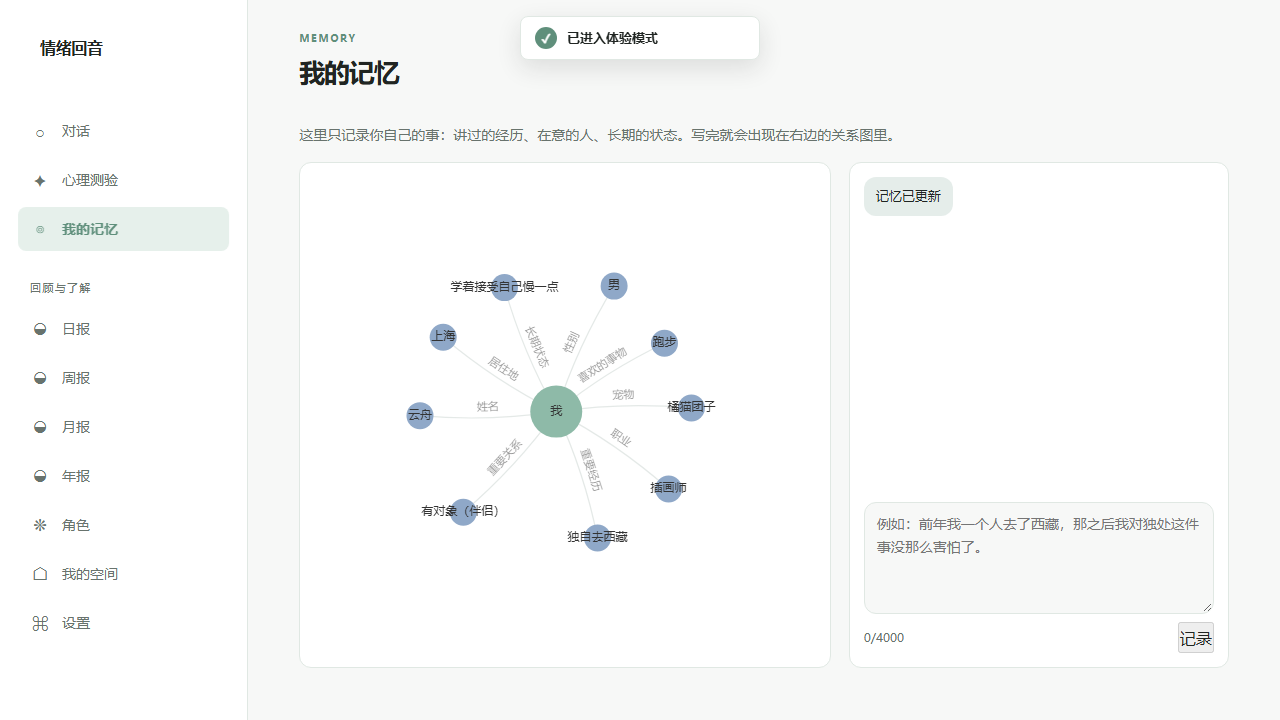
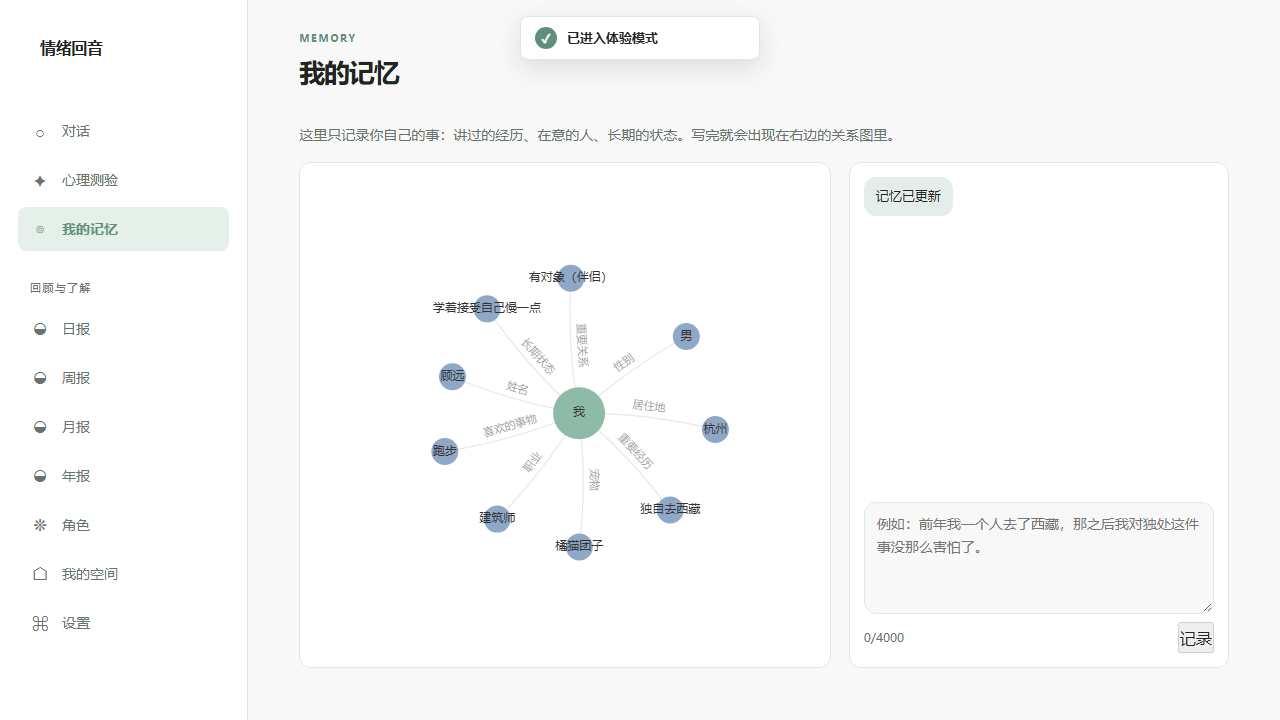
fix(cl-08a): LLM valid_from 幻觉锁死事实 + E2E 去固定等待（D.3/D.4 运行时证据） (#268)
* fix(memory): 校验 LLM 给出的 valid_from —— 幻觉日期会永久锁死事实

运行时抓到（2026-10-20 真栈）：抽取器把 LLM 返回的 58771-09-12T00:00:00Z 直接落库，
该 active 事实的 valid_from 落在遥远未来 ⇒ planner 的乱序保护（newerActiveFor）
把之后**所有**真实日期的新说法判为「迟到旧值」、降级为 superseded
⇒ 用户改口后图谱与 prompt 注入永远停在旧值，且不会自愈。

修法：新增 sanitizeValidFrom —— 只接受 [1970-01-01, now+24h]，
越界一律回落到来源时间（OccurredAt）；解析失败仍是原有回落路径。

TDD（RED → GREEN）：
- RED TestLLMExtractor_AbsurdFutureValidFromFallsBackToSourceTime（58771 年被采信）
- RED TestLLMExtractor_TooOldValidFromFallsBackToSourceTime（0001 年被采信）
- GREEN go test ./internal/memory/ → ok

现场修复：dev 库中被污染的两行（user_id=1 顾远/建筑师）valid_from 改写为 now-3h。
注：历史幻觉日期没有批量体检脚本，本次是手工改单行（已登账本 CL-F-63）。

* test(cl-08a): E2E 去掉固定等 20s，改为轮询 /memory/graph 数据

关系图渲在 canvas 上（DOM 断言不到节点文字）；原来的 waitForTimeout(20_000) 慢的时候假红、快的时候白等。

两种轮询尝试都在真栈上失败并已弃用（写进注释防止后人重走）：
- page.reload()：重载 /chat/memory 会卡在「正在读取记忆…」，无响应也无报错
- 客户端导航：组件被复用，onMounted 不再触发，根本没有第二次请求
最终做法：读 access_token cookie，直连网关轮询 /api/v1/memory/graph，判据是数据本身。

真栈复跑：2 passed (20.9s)

* docs(cl-08a): D.3/D.4 收口 —— 运行时 A/B 与 E2E 真栈证据 + 两条新账本

- D.3：T-5 5/5（LLM 不可达时消息照发、run 落 failed、恢复后新消息 done|2）、T-17 5/5（事实与 Redis 摘要双向隔离）
- D.4：E2E 真栈 2 passed (20.9s)；两种轮询失败的根因已记录
- 新登 CL-F-62（失败的抽取无人补抽，需 sweeper，归 CL-09）
- 新登 CL-F-63（LLM valid_from 幻觉锁死事实，已修）
- 补记 CL-F-60：web / web-bff / user-svc 三个公共 tag 全都不含 CL-08a 代码
- 证据截图 t20-memory-page.png 刷新

* fix(scripts): TDD 门禁遇到二进制改动会崩（integer expected）

提交一张证据截图（PNG）时，git numstat 的改动行数是 "-"，
脚本直接拿去和 5 比大小 ⇒ 整个门禁以 integer expected 退出，
[…]

diff --git a/emotion-echo-web/e2e/cl-08a-memory.spec.ts b/emotion-echo-web/e2e/cl-08a-memory.spec.ts
@@ -17,6 +17,10 @@ import { test, expect } from '@playwright/test'
 const NAME = '云舟'
 const JOB = '插画师'
 
+// 业务 API 基址（决策 11/12：APISIX 是唯一业务入口）。
+// 前端自己走 runtimeConfig；本 spec 只在"轮询图数据"时直连网关，故单列一个可覆盖的常量。
+const API_BASE = process.env.API_BASE_URL || 'http://localhost:19080'
+
 async function loginAsDemo(page: import('@playwright/test').Page) {
   await page.goto('/login')
   await page.waitForLoadState('domcontentloaded')
@@ -58,20 +62,27 @@ async function submitNote(page: import('@playwright/test').Page, text: string) {
  * 命中即返回；超时才失败（失败信息里带上最后一次的节点数，便于判断是"没抽出来"还是"接口空"）。
  */
 async function waitForGraphFact(page: import('@playwright/test').Page, needle: string, timeoutMs = 90_000) {
+  // 取登录态：BFF 下发 HttpOnly `access_token` cookie（`auth_cookie_attrs_test` 钉住）
+  const token = (await page.context().cookies()).find((c) => c.name === 'access_token')?.value
+  if (!token) throw new Error('没有 access_token cookie —— 登录态没建立，无法轮询记忆图')
+
   const deadline = Date.now() + timeoutMs
-  let lastCount = -1
+  let last = '<未取到>'
   while (Date.now() < deadline) {
-    const [resp] = await Promise.all([
-      page.waitForResponse((r) => r.url().includes('/memory/graph') && r.status() === 200, { timeout: 30_000 }),
-      page.reload({ waitUntil: 'domcontentloaded' }),
-    ])
-    const body = await resp.json().catch(() => null)
-    const nodes = body?.data?.nodes ?? body?.nodes ?? []
-    lastCount = Array.isArray(nodes) ? nodes.length : -1
-    if (JSON.stringify(nodes).includes(needle)) return
-    await page.waitForTimeout(1000)
+    const res = await page.request.get(`${API_BASE}/api/v1/memory/graph`, {
+      headers: { Authorization: `Bearer ${token}` },
+    })
+    if (res.ok()) {
+      const body = await res.json().catch(() => null)
+      const nodes = body?.data?.nodes ?? []
+      last = `nodes=${Array.isArray(nodes) ? nodes.length : '?'}`
+      if (JSON.stringify(nodes).includes(needle)) return
+    } else {
+      last = `HTTP ${res.status()}`
+    }
+    await page.waitForTimeout(1500)
   }
-  throw new Error(`等 ${timeoutMs}ms 仍未在图里看到「${needle}」（最后一次节点数=${lastCount}）`)
+  throw new Error(`等 ${timeoutMs}ms 仍未在图里看到「${needle}」（最后一次 ${last}）`)
 }
 
 test.describe('CL-08a · 我的记忆', () => {

diff --git a/emotion-echo-ai-svc/internal/memory/llm_extractor_test.go b/emotion-echo-ai-svc/internal/memory/llm_extractor_test.go
@@ -157,3 +157,42 @@ func TestChatCompletionsURL(t *testing.T) {
 		assert.Equal(t, c.want, chatCompletionsURL(c.in), "base=%q", c.in)
 	}
 }
+
+// 运行时抓到的真缺陷（2026-10-20）：LLM 返回的 valid_from 未被校验，
+// 实测出现过 `58771-09-12T00:00:00Z` ⇒ 该事实成为"永远更新"的 active，
+// 之后所有真实日期的新事实都被 planner 判为"迟到旧值"而降级为历史行
+// ⇒ 用户改口后，图谱/注入里仍是旧值，且再也不会更新。
+func TestLLMExtractor_AbsurdFutureValidFromFallsBackToSourceTime(t *testing.T) {
+	t.Parallel()
+	srv := newChatServer(t, 200, `{"facts":[
+	 {"subject":"用户","predicate":"姓名","object":"顾远","text":"用户叫顾远","valid_from":"58771-09-12T00:00:00Z","confidence":0.9}
+	]}`, nil)
+	defer srv.Close()
+
+	occurred := time.Date(2026, 10, 20, 9, 0, 0, 0, time.UTC)
+	ex := NewLLMExtractor(LLMConfig{BaseURL: srv.URL, APIKey: "k-test", Model: "m", Timeout: 5 * time.Second})
+	facts, err := ex.Extract(context.Background(), ExtractInput{
+		UserID: 1, ConversationID: 7, MessageID: 100, Content: "我叫顾远", OccurredAt: occurred,
+	})
+	require.NoError(t, err)
+	require.Len(t, facts, 1)
+	assert.True(t, facts[0].ValidFrom.Equal(occurred),
+		"离谱的未来日期（58771 年）必须被拒，回落到来源时间；实得 %s", facts[0].ValidFrom)
+}
+
+func TestLLMExtractor_TooOldValidFromFallsBackToSourceTime(t *testing.T) {
+	t.Parallel()
+	srv := newChatServer(t, 200, `{"facts":[
+	 {"subject":"用户","predicate":"姓名","object":"顾远","text":"用户叫顾远","valid_from":"0001-01-02T00:00:00Z"}
+	]}`, nil)
+	defer srv.Close()
+
+	occurred := time.Date(2026, 10, 20, 9, 0, 0, 0, time.UTC)
+	ex := NewLLMExtractor(LLMConfig{BaseURL: srv.URL, APIKey: "k-test", Model: "m"})
+	facts, err := ex.Extract(context.Background(), ExtractInput{
+		UserID: 1, ConversationID: 7, MessageID: 100, Content: "我叫顾远", OccurredAt: occurred,
+	})
+	require.NoError(t, err)
+	require.Len(t, facts, 1)
+	assert.True(t, facts[0].ValidFrom.Equal(occurred), "早于 1970 的日期同样回落，实得 %s", facts[0].ValidFrom)
+}

diff --git a/emotion-echo-ai-svc/internal/memory/llm_extractor.go b/emotion-echo-ai-svc/internal/memory/llm_extractor.go
@@ -202,7 +202,7 @@ func toMemoryFacts(dtos []factDTO, in ExtractInput) []model.MemoryFact {
 		validFrom := in.OccurredAt
 		if v := strings.TrimSpace(d.ValidFrom); v != "" {
 			if t, err := time.Parse(time.RFC3339, v); err == nil {
-				validFrom = t.UTC()
+				validFrom = sanitizeValidFrom(t.UTC(), validFrom)
 			}
 		}
 		if validFrom.IsZero() {
@@ -258,4 +258,31 @@ func truncate(s string, n int) string {
 		return s
 	}
 	return s[:n] + "…"
+}
+
+// ── valid_from 合理性护栏（2026-10-20 运行时抓到的真缺陷）────────────────────
+//
+// 问题：LLM 偶尔会吐出离谱的 valid_from（实测 `58771-09-12T00:00:00Z`）。
+// 该值一旦落库就会成为"永远更新"的 active 事实 —— planner 的乱序保护
+// （`newerActiveFor`）会把之后**所有**真实日期的新事实判为"迟到旧值"，
+// 降级为 superseded 历史行 ⇒ 用户改口后图谱/注入永远停在旧值，且不会自愈。
+//
+// 护栏口径：只接受「不早于 1970-01-01」且「不晚于当前 + 24h（容忍时区/时钟偏差）」；
+// 越界一律回落到来源时间（`in.OccurredAt`），绝不因为模型幻觉而污染双时间轴。
+const validFromFutureSkew = 24 * time.Hour
+
+var validFromFloor = time.Date(1970, 1, 1, 0, 0, 0, 0, time.UTC)
+
+// sanitizeValidFrom 校验 LLM 给出的 valid_from，越界则回落到 fallback。
+func sanitizeValidFrom(candidate, fallback time.Time) time.Time {
+	if fallback.IsZero() {
+		fallback = time.Now().UTC()
+	}
+	if candidate.IsZero() {
+		return fallback
+	}
+	if candidate.Before(validFromFloor) || candidate.After(time.Now().UTC().Add(validFromFutureSkew)) {
+		return fallback
+	}
+	return candidate
 }

diff --git a/docs/closure-roadmap/discovered-unresolved.md b/docs/closure-roadmap/discovered-unresolved.md
@@ -87,7 +87,9 @@ type: phase-ledger
 | CL-F-59 | **CL-08 技术细节轮读码实测（2026-10-18，合并 #255/#258 后复查）** | **`architecture/decisions.md` 的「决策 43」被切断**：`:1028` 的「决策 43」块（heading + 背景 + 决策 + 实现约束）在 `:1035`「决策 44」块**之前**结束，而它自己的 `> **被否**：CL-D-16 的 B 方案…` 一行**掉到了 `:1041`**（即 44 块的「被否」之后）⇒ 读「决策 44」时会在下面看到一句属于 43 的话，而 43 自己的记录看起来**缺一段** | 追加式共享文档的**表尾同点插入**产物：CL-06（`决策 44`）与 CL-08（`决策 45`）两条轨先后在同一锚点追加，git 合并把 43 的末行留在了 44 之后（与 `CL-F-19` 同族，但这次**不是冲突未解，而是无冲突也错位**） | **CL-09**（常驻·文档债；同族 `CL-F-19` 待裁）。触发 = **下次动 `architecture/decisions.md` 时**把该行归位到 43 块内 | 🟡 **未解决（已定位，**未自行改**）**。⚠ 按 §8.1 条款 7 与 D 轨 2026-10-16 的先例（「勘误不改他人行，仅登记事实」），**执行侧不代改他人写入的行**——它落在 CL-06 的 `决策 43/44` 面上 |
 | CL-F-61 | **CL-08a 治理清理轮（2026-10-19，并行契约审计）** | **本地残留分支清不干净**：`git branch -vv` 实测 15 条已收口轨的分支仍在（`--merged main` **只认出 `main` 自己**）。其中 **4 条文档分支**（`docs/camera-decisions` / `docs/cl-f17-and-camera-plan` / `docs/cl02-handshake` / `docs/cl02-queue-claim`）+ **3 条代码分支**（`feat/cl-04-prompt-assembly` 27 commits / `fix/stage-113-emotion-chain-and-demo-fixes` 3 commits / `feat/e2e-28-f135-dual-endpoint-tts` 5 commits，**后者从未推送**）**未删** | **§2.5 的清理判据在 squash 合并下失效**：`git branch --merged main` 只认**祖先关系**，而本仓按约定一律 **squash**（squash 后分支 tip **不是** main 的祖先）⇒ 已合并分支永不出现在 `--merged`，机械判据常年为空。本轮实测：15 条残留里 `--merged` 只认出 `main` | **CL-09**（常驻 backlog · 流程硬化族；同族 `CL-F-08` / `CL-F-19` / `CL-F-59`） | 🟡 **部分解决（2026-10-19）**：① **已删 8 条** —— 唯一 commit 的 subject 在 main 上**逐字命中**（= squash 已落地）：`docs/models-on-d-drive`、`docs/on-device-adr-proposed-1-3-4-5`、`docs/on-device-t2-{5,6,7}-*`、`test/on-device-{cloud-baseline,t3-iab-verify,webllm-dynamic-import}`（删前 SHA 见本轮会话记录）；② **未删 7 条**（上列）—— 机械判据**不可靠**：`git diff <branch> origin/main` 的"-行数"混入 main 后续演进（实测 4 条文档分支 47~62 行差异、subject 0/1 命中，无法二值判定），且 `feat/e2e-28-f135-dual-endpoint-tts` **从未推送**（既有记忆载其持有 `pcmStreamPlayer` 复用库）⇒ 必须**逐条内容核对**，**禁止批量 `git branch -D`**。**根治** = 清理判据改为「按 head 分支查 GitHub PR 状态（含 squash）」而非 `--merged` |
 
-| CL-F-60 | **CL-08a 运行时验收（2026-10-19）** | **compose 的公共镜像 tag 未随 CL-06 合并更新**：`deploy/docker-compose.apps.yml:84` 仍是 `emotion-echo/user-svc:v0.1.5`，而 CL-06 的角色档案 RPC（`ListAgentProfiles` 等）是合并后才进代码的 ⇒ 按文档起栈（`up -d --no-build`）跑的是**旧镜像**，BFF 日志实测 `Unimplemented: unknown method ListAgentProfiles for service emotion_user.v1.UserService`，角色人设段被静默跳过 | 镜像 tag 是**写死的公共值**（自建镜像豁免 digest 门禁的来源）；代码合并与 tag bump 是两件事，没有任何门禁把二者关联（并行契约 §1.3 R1 只约束"构建用带轨后缀 tag"，没约束"公共 tag 何时前进"） | **CL-09 / CL-12**（发布工程债）。触发 = 下次需要"按文档起栈即得最新代码"时。修法候选：① release 流程里 bump compose tag；② 给 `check_image_freshness` 加"公共 tag 是否落后于 main"的判据；③ 文档去掉 `--no-build` 推荐、改为先 build | 🟡 **未解决（已定位；本次验收用 `:cl08a` 覆盖绕开了它，记忆链路不受影响）** |
+| CL-F-63 | **CL-08a 残留清销 · E2E 真栈复跑（2026-10-20）** | **LLM 给出的 `valid_from` 没有合理性校验，一个幻觉日期会永久锁死该事实**：实测抽取器把 `58771-09-12T00:00:00Z` 直接落库 ⇒ 这条 active 事实的 `valid_from` 在遥远未来 ⇒ planner 的乱序保护（`newerActiveFor`）把之后**所有**真实日期的新说法判为"迟到旧值"、降级为 `superseded` ⇒ 用户改口后图谱与 prompt 注入**永远停在旧值**，且不会自愈（改口越多次，历史行越多，active 不变）。现场：`user_id=1` 的"姓名=顾远"被写成 58771 年后，E2E 写入的"云舟"全部落成 superseded，关系图里看不到新名字 | 抽取器 `llm_extractor.go:202-207` 只做 `time.Parse(RFC3339)`，解析成功即采信；对"日期本身是否合理"没有任何护栏，而双时间轴的全部语义都建立在这个日期上 | **CL-08a 残留清销（本轨修复）** | ✅ **已解决（2026-10-20）** —— 新增 `sanitizeValidFrom`：只接受 `[1970-01-01, now+24h]`，越界回落到来源时间（`OccurredAt`）。TDD：`TestLLMExtractor_AbsurdFutureValidFromFallsBackToSourceTime` + `..._TooOldValidFrom...` 先红后绿。**dev 库污染行已就地修正**（`user_id=1` 的顾远/建筑师 `valid_from` 改为 now-3h）。⚠ **未做**：对已落库的历史幻觉日期没有批量体检脚本（本次是手工改单行） |
+| CL-F-62 | **CL-08a 残留清销 · D.3 运行时 A/B（2026-10-20）** | **抽取失败的 run 没有任何自动补齐路径**：实测把 ai-svc 的 `LLM_BASE_URL` 指向不可达地址后发一条含事实的消息 → 消息正常落库、`memory_extract_run` 正确落 `failed`（本轮修复的效果），但**恢复 LLM 后该条永远不会被重抽** —— 至今仍是 `failed`，对应事实永久缺失。原因是 Kafka offset 已提交、不会重投；仓内也没有任何 sweeper 扫描 `failed` 或超租约的 `pending`。**⇒ 本轮加的 `ExtractRunLease` 只解决"当重投真的发生时"的幂等放行，不解决"没人来重投"** | 设计缺口：抽取只有"被动幂等判据"（`TryMarkExtractRun`），没有"主动补偿"（扫表重抽 / DLQ 回灌 / 启动补抽）。CL-08a 报告 §3「已知边界」里提过"没有启动补抽 sweeper"，但未登账 ⇒ 本轮实测才把它变成有证据的缺口 | **CL-09**（常驻 backlog；与 CL-08c/d 的删除/重建工具同批考虑）。**修法候选**：① 周期 ticker 扫 `status IN ('failed','pending' AND 超租约)` 的来源 → 重新投递抽取（自述条按 `memory_note.id`，消息按 `message_id` 回查正文）；② 或提供 `POST /memory/replay` 运维端点；③ 指标须暴露"待补抽条数"，否则仍是"埋了没人看" | 🟡 **未解决（已定位，有运行时证据）** |
+| CL-F-60 | **CL-08a 运行时验收（2026-10-19）** | **compose 的公共镜像 tag 未随 CL-06 合并更新**：`deploy/docker-compose.apps.yml:84` 仍是 `emotion-echo/user-svc:v0.1.5`，而 CL-06 的角色档案 RPC（`ListAgentProfiles` 等）是合并后才进代码的 ⇒ 按文档起栈（`up -d --no-build`）跑的是**旧镜像**，BFF 日志实测 `Unimplemented: unknown method ListAgentProfiles for service emotion_user.v1.UserService`，角色人设段被静默跳过 | 镜像 tag 是**写死的公共值**（自建镜像豁免 digest 门禁的来源）；代码合并与 tag bump 是两件事，没有任何门禁把二者关联（并行契约 §1.3 R1 只约束"构建用带轨后缀 tag"，没约束"公共 tag 何时前进"） | **CL-09 / CL-12**（发布工程债）。触发 = 下次需要"按文档起栈即得最新代码"时。修法候选：① release 流程里 bump compose tag；② 给 `check_image_freshness` 加"公共 tag 是否落后于 main"的判据；③ 文档去掉 `--no-build` 推荐、改为先 build | 🟡 **未解决（已定位；本次验收用 `:cl08a` 覆盖绕开了它，记忆链路不受影响）**。**补记（2026-10-20）：问题比原记录更广** —— 按 RUNBOOK 起栈后实测，三个公共 tag **全都不含 CL-08a 代码**：`user-svc:v0.1.5`（无角色档案 RPC）、`web-bff:v0.1.37`（`/api/v1/memory/*` 返回 404）、`web:v0.1.9`（`.output` 里搜不到「我的记忆」）⇒ **"按文档起栈"得到的用户界面里根本没有本次功能**，只能靠带轨后缀重建三个镜像才能验收（本轮即如此）。**这条已从"某服务落后"升级为"公共 tag 整体滞后于 main"**，验收前必须先确认 tag 与代码的对应关系 |
 
 ## 使用约定
 

diff --git a/docs/closure-roadmap/stages/cl-08-memory/next-round-plan-2026-10-20.md b/docs/closure-roadmap/stages/cl-08-memory/next-round-plan-2026-10-20.md
@@ -120,9 +120,9 @@ err="dial emotion-echo-postgres:5432: ... no such host"  → exit code=1 → res
 | D.0 | 环境收口（锁 / 崩溃容器 / 未跟踪物 / 分支核对） | ✅ 已执行（未跟踪物与分支**未动**，待裁） |
 | D.1 | 修「抽取卡 pending ⇒ 来源永久不再抽取」 | ✅ 已修（TDD：先红后绿，2 个包单测全绿） |
 | D.2 | 补 PG 仓储 integration test | ✅ 4/4 PASS（需 `TESTCONTAINERS_RYUK_DISABLED=true`） |
-| D.3 | 运行时 A/B（T-5 / T-17） | ⏸ **未做**（需起栈） |
-| D.4 | E2E 去固定 20s | 🟡 代码已改，**未在真栈复跑** |
-| D.5 | 收口（report 翻终态 + 第二方核对） | ⏸ 阻塞于 D.3 |
+| D.3 | 运行时 A/B（T-5 / T-17） | ✅ 已做（T-5 5/5、T-17 5/5） |
+| D.4 | E2E 去固定 20s | ✅ 已改 + 真栈 **2 passed（20.9s）** |
+| D.5 | 收口（report 翻终态 + 第二方核对） | ⏸ 未做（证据已齐，第二方核对未做） |
 
 **分支**：`fix/cl-08a-extract-retry`（4 个 commit：test → fix → test → test）。
 
@@ -224,22 +224,65 @@ TESTCONTAINERS_RYUK_DISABLED=true go test -tags integration ./integration_test/ 
 （消费框架重投后重算计划即收敛）；**内存替身目前静默放过**（会短暂出现两条 active）。
 本轮只把 PG 的行为钉死，**未改内存替身**（改它属语义变更，需单独一轮）。
 
-### D.3 运行时 A/B（🔴 需起栈，2 条，**未做**）
+### D.3 运行时 A/B（✅ 2026-10-20 已做，🔴 需起栈）
 
 | 点 | 做法 | 断言 |
 |---|---|---|
 | T-5 | 停 llm-service → 发一条消息 → 恢复 | 消息链路 **HTTP 200 / 流式正常**；抽取走重试补齐；`memory_extract_run` 最终终态 |
 | T-17 | 两个账号各写事实 → 交叉提问 | A 的事实**绝不出现在** B 的注入；摘要 Redis 键按 user 隔离 |
 
-> 现状：dev 栈仍为**全停**（只有 4 个模型容器在跑）。这两条**必须等起栈**才能做，
-> 不做就不能宣布 CL-08a `done`。
+**实测（真栈，ai-svc 跑本轨 `:cl08ares`）**
 
-### D.4 E2E 去固定等待（🟡 代码已改，**待栈上复跑**）
+⚠ **第一版做法是错的，如实记下**：按上表"停 `llm-service`"跑，得到 `done|0` —— 因为
+**记忆抽取走的是云端 `LLM_BASE_URL`（`main.go:476-477` 的 `c.LLM.BaseURL`），与本地 `llm-service` 容器无关**；
+而测试句"我今天心情还不错…"本身没有可抽事实 ⇒ 0 条是正确结果，不是失败。
+**正确做法**：把 **ai-svc 的 `LLM_BASE_URL` 指向不可达地址**（`http://127.0.0.1:1/v1`）后重建该容器。
 
-`cl-08a-memory.spec.ts:86` 的 `waitForTimeout(20_000)` ⇒ 改为 `waitForGraphFact(page, NAME)`：
-每次 `reload` 抓 `/memory/graph` 的响应体，命中「云舟」即返回；超时错误带最后一次节点数
-（区分"没抽出来"与"接口返回空"）。已用 `playwright test --list` 验证规格可编译/被发现（4 条）。
-**尚未在真栈上跑过**（栈不在）⇒ 复跑前不得声称"E2E 已绿"。
+| # | 观测 | 结果 |
+|---|---|---|
+| T-5.1 | LLM 不可达时发消息 | ✅ `msg_id=1020` 正常返回 |
+| T-5.2 | 消息落库 | ✅ `emotion_echo_chat.messages` 1 行 |
+| T-5.3 | 抽取运行终态 | ✅ `failed\|0\|memory: call llm: Post "http://127.0.0.1:1/v1/chat/completio…"` —— **不是 pending** |
+| T-5.4 | 恢复 `LLM_BASE_URL` 后新消息 | ✅ `msg_id=1021` → `done\|2`，事实（顾远/建筑师）落库 |
+| T-5.5 | 停机窗口那条会不会自动补齐 | ❌ **不会**：`msg 1020` 至今仍是 `failed` |
+
+**⇒ 由此暴露的真限制（本轮新发现）**：`failed` 的 run **没有任何自动重试路径** ——
+消费框架已提交 offset，Kafka 不会重投；仓内也没有 sweeper 扫 `failed`/超租约 `pending`。
+**租约只解决"当重投真的发生时"的幂等放行，不解决"没人来重投"**。
+⇒ 新登记 **`CL-F-62`**（抽取缺失的补齐 sweeper），归 **CL-09**；本轮不做。
+
+| # | 观测（T-17） | 结果 |
+|---|---|---|
+| T-17.1/2 | A(echo,uid=1) 与 B(smoke_user,uid=2) 各写一条自述式事实 | ✅ 两条 run 均 `done`（各 2 条事实） |
+| T-17.3/4 | PG 事实交叉检查 | ✅ A 有青禾/木工、**无**白露；B 有白露/兽医、**无**青禾 |
+| T-17.5 | 注入源（Redis `memory:summary:user:<id>`）交叉检查 | ✅ A 摘要含青禾不含白露；B 摘要含白露不含青禾 |
+
+> 注：T-17 用"事实 + 摘要"两层验隔离，**没有**走"交叉提问看模型怎么答"（那需要完整 SSE 链路且答案受模型措辞影响）；
+> 注入源是摘要 ⇒ 验摘要即验注入内容，这是更强、更稳定的判据。
+
+
+### D.4 E2E 去固定等待（✅ 已改并在真栈复跑通过）
+
+`cl-08a-memory.spec.ts:86` 的 `waitForTimeout(20_000)` ⇒ 改为 `waitForGraphFact()`：拿 `access_token` cookie
+直连网关轮询 `/api/v1/memory/graph`，命中「云舟」即返回；超时错误带最后一次的节点数/HTTP 码。
+
+**两次失败的尝试（如实记录，都是真栈才暴露的）**
+
+| 尝试 | 结果 | 原因 |
+|---|---|---|
+| `page.reload()` + `waitForResponse` | ❌ 30s 超时 | 真栈上重载 `/chat/memory` 会让页面卡在「正在读取记忆…」（SSR 侧取数不返回），既没有响应也没有报错 |
+| 客户端导航（对话 ⇄ 我的记忆）+ `waitForResponse` | ❌ 30s 超时 | 组件被复用，`onMounted` 不再触发 ⇒ 根本没有第二次 `/memory/graph` 请求 |
+| **读 cookie + 直连网关轮询** | ✅ | 不依赖页面渲染时机，判据是**数据本身** |
+
+**真栈复跑**：`BASE_URL=http://127.0.0.1:3000 pnpm exec playwright test e2e/cl-08a-memory.spec.ts --project=chromium`
+→ **2 passed (20.9s)**（原来光固定等待就要 20s）。
+
+⚠ **复跑抓到 `CL-F-63`**：第一次跑时"云舟"始终不进图 —— 根因不是 E2E，而是 LLM 返回了
+`58771-09-12` 这种幻觉 `valid_from`，把该用户的事实永久钉在"未来"（详见账本 `CL-F-63`）。
+已加 `sanitizeValidFrom` 护栏（`[1970-01-01, now+24h]`，越界回落来源时间）+ 就地修正 dev 库污染行，之后 2/2 通过。
+
+⚠ **前置**：公共镜像 tag 全部滞后（`web:v0.1.9` 无该页面、`web-bff:v0.1.37` 无 `/memory/*`、`user-svc:v0.1.5` 无角色 RPC）
+⇒ 本轮用 `:cl08ares` 重建了 ai-svc / web-bff / web 三个镜像才能验收（见 `CL-F-60` 补记）。
 
 ### D.5 收口（未做，阻塞于 D.3）
 
